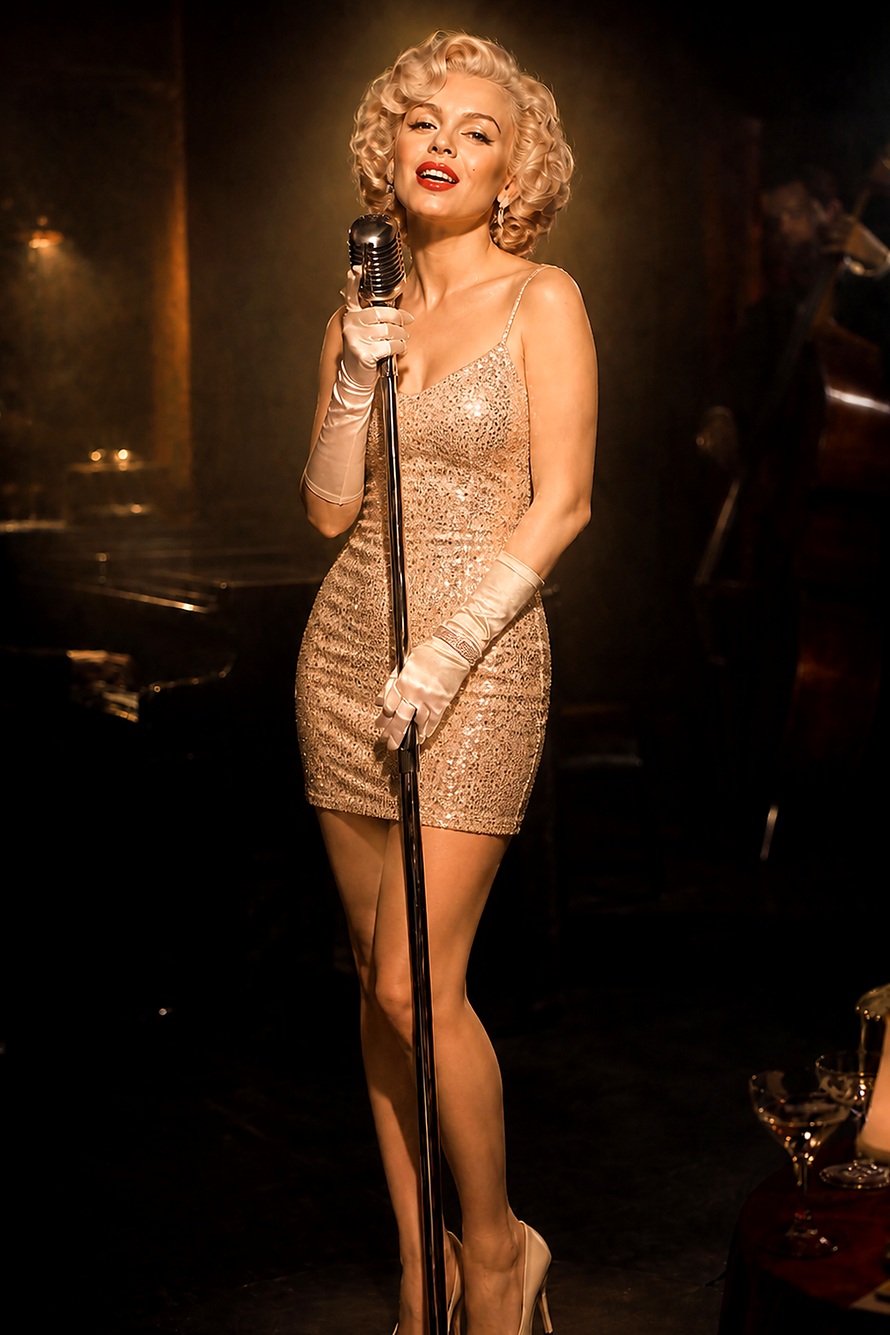
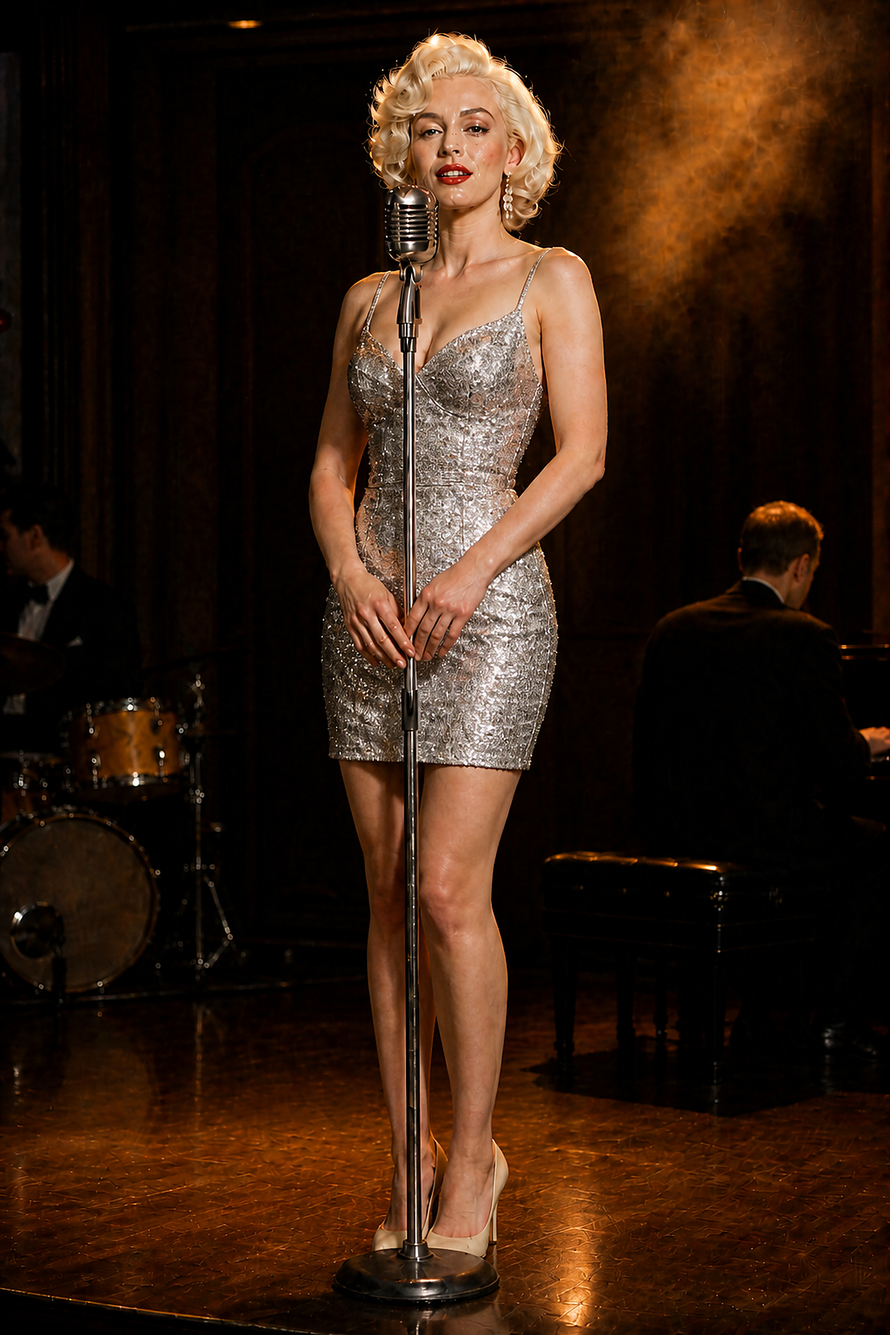
Refresh muse skins: one mic scene, unique outfits per level
Replace repeating looks with a consistent microphone-stage set and a
clear wardrobe ladder ending in white lace lingerie at level 10.

diff --git a/src/achievements/levelAchievements.ts b/src/achievements/levelAchievements.ts
@@ -11,88 +11,88 @@ export interface LevelAchievement {
 }
 
 /**
- * One achievement per level. Reaching the level unlocks the reward and
- * advances Miss Melody's hi-res stage wardrobe.
+ * One achievement per level. Same microphone stage scene;
+ * each level removes / changes the outfit. Level 10 = lingerie.
  */
 export const LEVEL_ACHIEVEMENTS: readonly LevelAchievement[] = [
   {
     level: 1,
     id: "level-1",
     title: "First Ivory",
-    description: "Open the recital at level 1.",
-    outfitLabel: "Ivory gown & fur",
+    description: "Open the recital — full gown, fur, and gloves.",
+    outfitLabel: "Gown, fur & gloves",
     imageSrc: "/muse/stage-01.png",
   },
   {
     level: 2,
     id: "level-2",
-    title: "Warm Spotlight",
-    description: "Reach level 2 — the stole comes off.",
+    title: "Stole Away",
+    description: "Reach level 2 — the fur stole comes off.",
     outfitLabel: "Ivory evening gown",
     imageSrc: "/muse/stage-02.png",
   },
   {
     level: 3,
     id: "level-3",
-    title: "Satin Hands",
-    description: "Reach level 3 — gloves slip away.",
-    outfitLabel: "Gown, bare hands",
+    title: "Midnight Gown",
+    description: "Reach level 3 — black gown under the lights.",
+    outfitLabel: "Black evening gown",
     imageSrc: "/muse/stage-03.png",
   },
   {
     level: 4,
     id: "level-4",
     title: "Cocktail Hour",
-    description: "Reach level 4 — the gown becomes a cocktail dress.",
-    outfitLabel: "Cream cocktail dress",
+    description: "Reach level 4 — hem rises to a cocktail dress.",
+    outfitLabel: "Champagne cocktail",
     imageSrc: "/muse/stage-04.png",
   },
   {
     level: 5,
     id: "level-5",
     title: "Strapless Glow",
-    description: "Reach level 5 — shoulders bare under the lights.",
-    outfitLabel: "Strapless satin dress",
+    description: "Reach level 5 — shoulders bare, strapless satin.",
+    outfitLabel: "White strapless dress",
     imageSrc: "/muse/stage-05.png",
   },
   {
     level: 6,
     id: "level-6",
-    title: "Silk Slip",
-    description: "Reach level 6 — dress gives way to a silk slip.",
-    outfitLabel: "Blush silk slip",
+    title: "Blush Satin",
+    description: "Reach level 6 — soft blush satin on the mic.",
+    outfitLabel: "Blush satin dress",
     imageSrc: "/muse/stage-06.png",
   },
   {
     level: 7,
     id: "level-7",
     title: "Robe Interlude",
-    description: "Reach level 7 — silk robe between sets.",
+    description: "Reach level 7 — silk robe between numbers.",
     outfitLabel: "Ivory silk robe",
     imageSrc: "/muse/stage-07.png",
   },
   {
     level: 8,
     id: "level-8",
-    title: "Sequin Motif",
-    description: "Reach level 8 — champagne sequins catch the light.",
-    outfitLabel: "Champagne sequin dress",
+    title: "Emerald Spark",
+    description: "Reach level 8 — short emerald sequin mini.",
+    outfitLabel: "Emerald sequin mini",
     imageSrc: "/muse/stage-08.png",
   },
   {
     level: 9,
     id: "level-9",
-    title: "Closer Spotlight",
-    description: "Reach level 9 — the spotlight pulls in tight.",
-    outfitLabel: "Spotlight encore dress",
+    title: "Silver Encore",
+    description: "Reach level 9 — silver sequins catch the spotlight.",
+    outfitLabel: "Silver sequin mini",
     imageSrc: "/muse/stage-09.png",
   },
   {
     level: 10,
     id: "level-10",
-    title: "Final Fair",
-    description: "Reach level 10 — cashmere wrap for the final bow.",
-    outfitLabel: "Fair wrap encore",
+    title: "Lace Finale",
+    description: "Reach level 10 — white lace lingerie at the mic.",
+    outfitLabel: "White lace lingerie",
     imageSrc: "/muse/stage-10.png",
   },
 ] as const;

diff --git a/public/muse/README.md b/public/muse/README.md
@@ -1,5 +1,16 @@
 # Miss Melody stage portraits
 
-High-resolution (1536×2304) outfit stages unlocked by level achievements.
+One jazz-club microphone scene. Each level changes her outfit:
 
-These are fictional fashion portraits for the Piano Blocks stage muse.
+1. Gown, fur & gloves
+2. Ivory evening gown
+3. Black evening gown
+4. Champagne cocktail
+5. White strapless dress
+6. Blush satin dress
+7. Ivory silk robe
+8. Emerald sequin mini
+9. Silver sequin mini
+10. White lace lingerie
+
+Images are 1536×2304 PNG.
